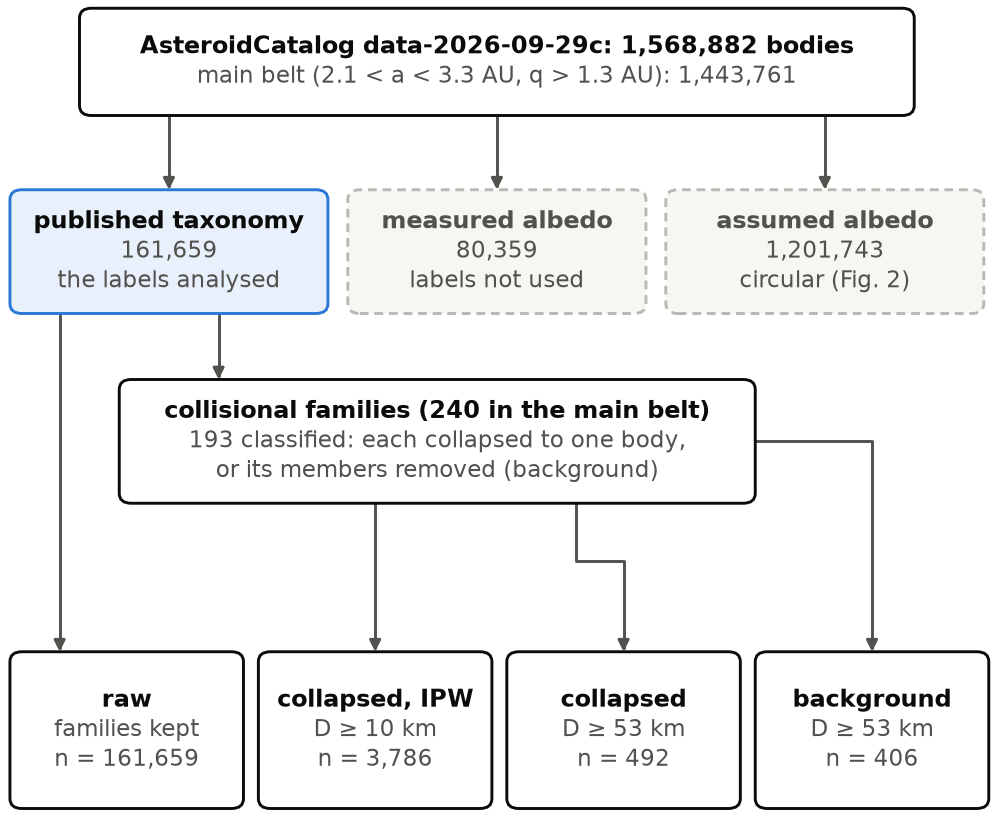
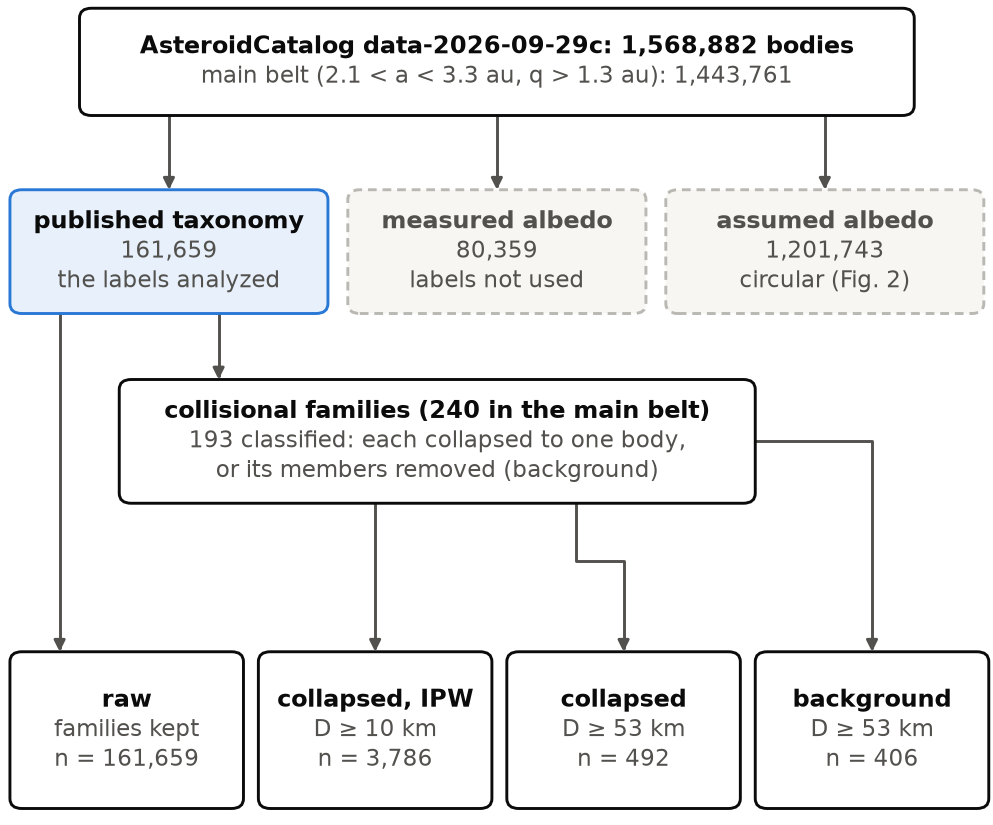
Move legends clear of the data, write au, match Table 5's p-values (v2.6.1)
Drawing changes only, from the paper's formatting audit:
- Figs. 2, 4, 8 and 11: legends move outside the axes, where no line crosses them.
- Fig. 9: KS p-values to two significant figures with trailing zeros (0.030, 0.0060), as in Table 5.
- Every figure writes the astronomical unit as "au" (AAS / IAU style).
- Figs. 3 and 7: "analyzed", "all classified bodies".

summary.json is identical apart from the version; no RNG draw changes.

Changed region(s): [[0.1873, 0.0606, 0.4995, 0.1212], [0.6244, 0.0606, 0.8117, 0.1212]]

diff --git a/src/beltgradient/figures.py b/src/beltgradient/figures.py
@@ -72,7 +72,7 @@ def completeness_plot(comp: pd.DataFrame, h_c: float, d_c: float):
 
 def c_fraction_panels(samples: dict[str, pd.DataFrame], panel_keys: list[str], rng: np.random.Generator):
     """C-fraction vs a: raw, collapsed + IPW, collapsed + size-complete."""
-    fig, axes = _fig(FULL_W, 2.3, ncols=3, sharey=True)
+    fig, axes = _fig(FULL_W, 2.5, ncols=3, sharey=True)
     for ax, k in zip(axes, panel_keys):
         s = samples[k]
         sparse = k != "raw"   # weighted / size-limited samples are thin at 0.05 AU
@@ -85,12 +85,12 @@ def c_fraction_panels(samples: dict[str, pd.DataFrame], panel_keys: list[str], r
         ax.plot(cb.a[ok], cb.f[ok], color=COLORS["K/L"], lw=.9, ls="--")
         mark_structure(ax)
         ax.set_title(f"{k.replace('≥', ' ≥ ')}  (n = {len(s):,})", loc="left", fontsize=6.5, color=INK)
-        ax.set(xlabel="semimajor axis a (AU)", ylim=(0, 1), xlim=(A_MIN, A_MAX))
+        ax.set(xlabel="semimajor axis a (au)", ylim=(0, 1), xlim=(A_MIN, A_MAX))
     axes[0].set_ylabel("carbonaceous fraction")
     axes[0].plot([], [], color=COLORS["C-like"], lw=1.3, label="narrow, C/(S+C), 16–84% band")
     axes[0].plot([], [], color=COLORS["K/L"], lw=.9, ls="--", label="broad, (C+D/P+K/L)/(all but X)")
-    axes[0].plot([], [], color=SNOW, lw=.8, ls="--", label=f"snow line, $T_{{eq}}$ = 170 K ({SNOW_LINE_AU:.2f} AU)")
-    axes[0].legend(loc="upper left")
+    axes[0].plot([], [], color=SNOW, lw=.8, ls="--", label=f"snow line, $T_{{eq}}$ = 170 K ({SNOW_LINE_AU:.2f} au)")
+    fig.legend(*axes[0].get_legend_handles_labels(), loc="outside lower center", ncol=3)   # below, clear of the data
     return fig
 
 
@@ -113,7 +113,7 @@ def stacked_composition(s: pd.DataFrame, d_c: float):
     top.tick_params(length=0, pad=1, labelsize=5.5, labelcolor=INK2)
     top.spines["top"].set_visible(False)
     top.set_xlabel(f"bodies per bin (D ≥ {d_c:.0f} km, families collapsed)", fontsize=6, color=INK2, labelpad=2)
-    ax.set(xlim=(A_MIN, A_MAX), ylim=(0, 1), xlabel="semimajor axis a (AU)", ylabel="fraction by number")
+    ax.set(xlim=(A_MIN, A_MAX), ylim=(0, 1), xlabel="semimajor axis a (au)", ylabel="fraction by number")
     fig.legend(*ax.get_legend_handles_labels(), loc="outside lower center", ncol=len(order), handlelength=1.0, columnspacing=1.0)
     return fig
 
@@ -151,7 +151,7 @@ def orbital_cdfs(orb: pd.DataFrame):
                             label=f"{g} (n = {len(arr):,})")
             if len(S) >= 10 and len(C) >= 10:
                 p = stats.ks_2samp(S, C).pvalue
-                ax.text(.03, .97, f"KS p = {p:.2g}", transform=ax.transAxes, ha="left", va="top", fontsize=5.5, color=INK2)
+                ax.text(.03, .97, f"KS p = {p:#.2g}", transform=ax.transAxes, ha="left", va="top", fontsize=5.5, color=INK2)
             ax.set(xlabel=lab.replace("proper ", "proper "), ylabel="cumulative fraction" if j == 0 else None, ylim=(0, 1.02))
             if i == 0:
                 ax.set_title(z, loc="left", fontsize=6.5)
@@ -160,7 +160,7 @@ def orbital_cdfs(orb: pd.DataFrame):
 
 
 def dark_fraction(alb: pd.DataFrame, d_ca: float, rng: np.random.Generator):
-    fig, ax = _fig(COL_W, 2.0)
+    fig, ax = _fig(COL_W, 2.3)
     for lab, d, c in [("all with measured albedo", alb, "#9aa5a6"),
                       (f"background, D ≥ {d_ca:.0f} km (complete)", alb[~alb.in_family & (alb.diameter_km >= d_ca)], COLORS["C-like"])]:
         x, f, lo, hi, n = dark_curve(d, np.arange(A_MIN, A_MAX + 1e-9, 0.1 if "D ≥" in lab else BIN_W), rng)
@@ -168,21 +168,21 @@ def dark_fraction(alb: pd.DataFrame, d_ca: float, rng: np.random.Generator):
         ax.fill_between(x[k], lo[k], hi[k], color=c, alpha=.2, lw=0)
         ax.plot(x[k], f[k], color=c, lw=1.2, label=f"{lab} (n = {len(d):,})")
     mark_structure(ax)
-    ax.set(xlabel="semimajor axis a (AU)", ylabel="fraction with $p_V$ < 0.10", ylim=(0, 1), xlim=(A_MIN, A_MAX))
-    ax.legend(loc="lower right")
+    ax.set(xlabel="semimajor axis a (au)", ylabel="fraction with $p_V$ < 0.10", ylim=(0, 1), xlim=(A_MIN, A_MAX))
+    fig.legend(*ax.get_legend_handles_labels(), loc="outside lower center")
     return fig
 
 
 def circularity(assumed: pd.DataFrame, raw: pd.DataFrame, rng: np.random.Generator):
     """The assumed-albedo tier returns the step function it was built from."""
-    fig, ax = _fig(COL_W, 1.95)
+    fig, ax = _fig(COL_W, 2.3)
     for lab, d, c in [("assumed-albedo labels (circular)", assumed, "#e67e22"),
                       ("published taxonomy, raw", raw, COLORS["C-like"])]:
         cc = c_fraction_curve(d, rng, "narrow", n_boot=50)
         ax.plot(cc.a, cc.f, color=c, lw=1.2, label=f"{lab} (n = {len(d):,})")
     mark_structure(ax, snow=False)
-    ax.set(xlabel="semimajor axis a (AU)", ylabel="C/(S+C)", ylim=(-.02, 1.02), xlim=(A_MIN, A_MAX))
-    ax.legend(loc="lower right")
+    ax.set(xlabel="semimajor axis a (au)", ylabel="C/(S+C)", ylim=(-.02, 1.02), xlim=(A_MIN, A_MAX))
+    fig.legend(*ax.get_legend_handles_labels(), loc="outside lower center")
     return fig
 
 
@@ -214,7 +214,7 @@ def size_distance_map(s: pd.DataFrame):
     top.spines["top"].set_visible(False)
     ax.set_yticks(np.arange(shape[0]) + .5, ["10–20", "20–50", "50–100", "≥ 100"])
     ax.tick_params(axis="y", length=0)
-    ax.set(xlabel="semimajor axis a (AU)", ylabel="diameter D (km)", xlim=(A_MIN, A_MAX))
+    ax.set(xlabel="semimajor axis a (au)", ylabel="diameter D (km)", xlim=(A_MIN, A_MAX))
     for side in ("left", "bottom"):
         ax.spines[side].set_visible(False)
     cb = fig.colorbar(m, ax=ax, pad=.02, fraction=.06, aspect=18, ticks=[0, .25, .5, .75, 1])
@@ -229,7 +229,7 @@ SAMPLE_COLORS = ["#8e8e8e", "#2a78d6", "#eb6834", "#1baf7a"]   # raw in gray; th
 
 def crossover_fits(xo: pd.DataFrame):
     """The fitted logistic P(C | a) of every sample, dotted outside the belt, with a50 and its 16–84% interval below."""
-    fig, (ax, ax2) = _fig(COL_W, 2.75, nrows=2, sharex=True, gridspec_kw={"height_ratios": [3, 1.15]})
+    fig, (ax, ax2) = _fig(COL_W, 3.0, nrows=2, sharex=True, gridspec_kw={"height_ratios": [3, 1.15]})
     x = np.linspace(1.4, 4.0, 521)
     inb = (x >= A_MIN) & (x <= A_MAX)
     labels = [k.replace("≥", " ≥ ") for k in xo.index]
@@ -252,10 +252,10 @@ def crossover_fits(xo: pd.DataFrame):
     ax.text(SNOW_LINE_AU + .03, .02, "snow line", fontsize=5.5, color=SNOW, va="bottom")
     ax.set(ylim=(0, 1), ylabel="fitted P(C | a)")
     ax.set_yticks([0, .1, .5, .9, 1])
-    ax.legend(loc="upper left", fontsize=5.5)
+    fig.legend(*ax.get_legend_handles_labels(), loc="outside upper center", ncol=2, fontsize=5.5)
     ax2.set_yticks(range(len(xo)), ["raw", "IPW, D ≥ 10", "D ≥ 53", "background"][::-1] if len(xo) == 4 else labels[::-1])
     ax2.tick_params(axis="y", length=0, labelsize=5.5)
-    ax2.set(xlim=(1.4, 4.0), ylim=(-.6, len(xo) - .4), xlabel="semimajor axis a (AU)")
+    ax2.set(xlim=(1.4, 4.0), ylim=(-.6, len(xo) - .4), xlabel="semimajor axis a (au)")
     ax2.set_ylabel("$a_{50}$", fontsize=6)
     return fig
 
@@ -285,7 +285,7 @@ def proper_element_map(mb: pd.DataFrame, orb: pd.DataFrame, ftab: pd.DataFrame):
                         ha="center", va="center", zorder=3,
                         bbox=dict(boxstyle="round,pad=0.12", fc="white", ec="none", alpha=.75))
     mark_structure(ax, snow=False)
-    ax.set(xlim=(A_MIN, A_MAX), ylim=(0, top_i), xlabel="proper semimajor axis $a_P$ (AU)", ylabel="proper sin $i_P$")
+    ax.set(xlim=(A_MIN, A_MAX), ylim=(0, top_i), xlabel="proper semimajor axis $a_P$ (au)", ylabel="proper sin $i_P$")
     fig.legend(*ax.get_legend_handles_labels(), loc="outside lower center", ncol=3, markerscale=3.5, handletextpad=.3,
                title=f"background bodies, D ≥ {D_ORBIT:.0f} km:", title_fontsize=6, alignment="left")
     return fig
@@ -365,10 +365,10 @@ def snow_line_track(track, crossover: tuple[float, float]):
     for a_myr in (1.0, 5.0):
         k = int(np.argmin(abs(age - a_myr)))
         ax.plot(age[k], r[k], "o", ms=3.2, color=COLORS["C-like"], mec="white", mew=.5, zorder=4)
-        ax.annotate(f"{r[k]:.1f} AU at {age[k]:.0f} Myr", (age[k], r[k]), xytext=(5, 3), textcoords="offset points",
+        ax.annotate(f"{r[k]:.1f} au at {age[k]:.0f} Myr", (age[k], r[k]), xytext=(5, 3), textcoords="offset points",
                     fontsize=5.5, color=INK2)
     ax.set_xscale("log")
-    ax.set(xlim=(age[0], age[-1]), ylim=(1.5, 5.0), xlabel="age of a 1 $M_\\odot$ star (Myr)", ylabel="snow-line radius (AU)")
+    ax.set(xlim=(age[0], age[-1]), ylim=(1.5, 5.0), xlabel="age of a 1 $M_\\odot$ star (Myr)", ylabel="snow-line radius (au)")
     ax.set_xticks([.5, 1, 2, 5, 10, 20, 50], ["0.5", "1", "2", "5", "10", "20", "50"])
     x0 = age[0] * 1.06
     ax.text(age[-1] * .97, A_MAX - .05, "present main belt", ha="right", va="top", fontsize=5.5, color=INK2)
@@ -408,8 +408,8 @@ def sample_flow(summary: dict, keys: list[str]):
     fig.subplots_adjust(0, 0, 1, 1)
     ax.set(xlim=(0, 100), ylim=(0, 100)); ax.axis("off")
     _box(ax, 8, 86, 92, 99, [f"AsteroidCatalog {c['release']}: {c['rows']:,} bodies",
-                             f"main belt (2.1 < a < 3.3 AU, q > 1.3 AU): {c['main_belt']:,}"])
-    _box(ax, 1, 62, 33, 77, ["published taxonomy", f"{tiers['taxonomy']:,}", "the labels analysed"], focal=True)
+                             f"main belt (2.1 < a < 3.3 au, q > 1.3 au): {c['main_belt']:,}"])
+    _box(ax, 1, 62, 33, 77, ["published taxonomy", f"{tiers['taxonomy']:,}", "the labels analyzed"], focal=True)
     _box(ax, 35, 62, 65, 77, ["measured albedo", f"{tiers['albedo_proxy']:,}", "labels not used"], muted=True)
     _box(ax, 67, 62, 99, 77, ["assumed albedo", f"{tiers['assumed']:,}", "circular (Fig. 2)"], muted=True)
     for x in (17, 50, 83):

diff --git a/src/beltgradient/pipeline.py b/src/beltgradient/pipeline.py
@@ -258,7 +258,7 @@ def _run(paths: Paths, write: bool, verbose: bool) -> Results:
     # 6 · by mass (family collapse conserves mass, so all labelled bodies)
     t = mb[mb.tier.eq("taxonomy") & mb.estimated_mass_kg.notna() & mb.group.isin(GROUP_ORDER)]
     big4 = set(t.nlargest(4, "estimated_mass_kg").index)
-    mass_panels = [("all labelled bodies", t), ("without the 4 most massive", t.drop(index=list(big4)))]
+    mass_panels = [("all classified bodies", t), ("without the 4 most massive", t.drop(index=list(big4)))]
     save("mass", F.mass_bars(mass_panels))
     mass_c = {}
     for lab, d in zip(["all", "no_big4"], [p[1] for p in mass_panels]):

diff --git a/src/beltgradient/__init__.py b/src/beltgradient/__init__.py
@@ -4,4 +4,4 @@ Analysis code for Edwards (2026), "Constraints on the Origin of the Asteroid Bel
 from Debiased Taxonomic Data". ``python -m beltgradient fetch`` downloads the inputs;
 ``python -m beltgradient run`` regenerates every figure and ``results/summary.json``.
 """
-__version__ = "2.6.0"
+__version__ = "2.6.1"

diff --git a/README.md b/README.md
@@ -104,7 +104,7 @@ The catalog is a merger, and two of its sources make citation a condition of use
 
 The full list is in the [AsteroidCatalog citations](https://github.com/loggger101/AsteroidCatalog/blob/main/CITATIONS.md).
 
-See [`CITATION.cff`](CITATION.cff). The paper cites release **v2.6.0**, which reads the AsteroidCatalog release `data-2026-09-29c` (data contract 1.8.1). It adds three figures (Figs. 1, 3 and 12) and the `summary.json` blocks behind them (`snow_line_track`, `sample_sizes`, `albedo_by_group`); every other output is identical to v2.5.0's. v2.5.0 redrew every figure at its printed size and adds four (Figs. 4, 6, 8 and 10 above); `summary.json` is identical to v2.4.0's apart from the version. v2.4.0 added the X-type split by albedo (Method 7, `summary.json` → `x_split_by_albedo`); every other output is identical to v2.3.1's. v2.3.1 differs from v2.3.0 only in Fig. 3 (`fig1b_stacked_composition.png`), whose bin counts now sit in their own row instead of colliding with the resonance labels; `summary.json` and the other figures are identical. Against `data-2026-09-27`, which v2.2.0 read, the release that v2.3.0 and v2.3.1 read adds two mineral-phase columns this analysis does not read and 225 main-belt bodies, all of them unclassified, and names 47 more bodies. No main-belt body's class, orbit, H, diameter, albedo or mass moves (beyond one part in 10¹²). So only the main-belt and assumed-albedo counts change (and the assumed-label share, 0.8323 → 0.8324), along with the two figures that show them (completeness and circularity); every fraction, crossover, orbit test, mass share and table is identical. v2.2.0 read `data-2026-09-27`, and v2.1.0 read `data-2026-09-26b`. Against the latter, the 2026-09-27 rebuild adds 751 main-belt bodies, none of them classified, and changes only masses estimated from a class density: an X-type with a measured albedo now takes the density of the P, M or E class that albedo indicates, one without takes their mixture, and the P and Q densities are lower. No main-belt body's class, orbit, H, diameter or albedo moves. So only the main-belt and assumed-albedo counts, the family fraction under the one-step extension (by 0.0002), the measured share of classified mass (0.940 → 0.951) and five mass shares (by at most 0.005) change, along with the three figures that show them (completeness, mass by zone, circularity). The mass-by-zone figure also puts its legend under the panels, where it no longer covers the outer zone's total. Every fraction, crossover, orbit test and table is identical. v2.1.0 differed from v2.0.0 (`data-2026-09-26`) in the same way: 185 more unclassified bodies and corrected Xe, Xk and Xc densities. The v1.x releases analysed the catalog's 2026-08-11 build (pipeline 1.1.0, frozen as this repository's [`data-v1`](https://github.com/loggger101/asteroid-belt-gradient/releases/tag/data-v1) snapshot), so their numbers differ slightly. v2.0.0 also groups classes F and Z, which v1.x left out of every fraction.
+See [`CITATION.cff`](CITATION.cff). The paper cites release **v2.6.1**, which reads the AsteroidCatalog release `data-2026-09-29c` (data contract 1.8.1). It changes only how figures are drawn: the legends of Figs. 2, 4, 8 and 11 move outside the plot area, where no line crosses them; Fig. 9 prints its KS p-values to two significant figures as Table 5 does (0.030, 0.0060); Figs. 3 and 7 use American spelling; and every figure writes the astronomical unit as "au" (AAS and IAU style). `summary.json` is identical to v2.6.0's apart from the version. v2.6.0 added three figures (Figs. 1, 3 and 12) and the `summary.json` blocks behind them (`snow_line_track`, `sample_sizes`, `albedo_by_group`); every other output is identical to v2.5.0's. v2.5.0 redrew every figure at its printed size and adds four (Figs. 4, 6, 8 and 10 above); `summary.json` is identical to v2.4.0's apart from the version. v2.4.0 added the X-type split by albedo (Method 7, `summary.json` → `x_split_by_albedo`); every other output is identical to v2.3.1's. v2.3.1 differs from v2.3.0 only in Fig. 3 (`fig1b_stacked_composition.png`), whose bin counts now sit in their own row instead of colliding with the resonance labels; `summary.json` and the other figures are identical. Against `data-2026-09-27`, which v2.2.0 read, the release that v2.3.0 and v2.3.1 read adds two mineral-phase columns this analysis does not read and 225 main-belt bodies, all of them unclassified, and names 47 more bodies. No main-belt body's class, orbit, H, diameter, albedo or mass moves (beyond one part in 10¹²). So only the main-belt and assumed-albedo counts change (and the assumed-label share, 0.8323 → 0.8324), along with the two figures that show them (completeness and circularity); every fraction, crossover, orbit test, mass share and table is identical. v2.2.0 read `data-2026-09-27`, and v2.1.0 read `data-2026-09-26b`. Against the latter, the 2026-09-27 rebuild adds 751 main-belt bodies, none of them classified, and changes only masses estimated from a class density: an X-type with a measured albedo now takes the density of the P, M or E class that albedo indicates, one without takes their mixture, and the P and Q densities are lower. No main-belt body's class, orbit, H, diameter or albedo moves. So only the main-belt and assumed-albedo counts, the family fraction under the one-step extension (by 0.0002), the measured share of classified mass (0.940 → 0.951) and five mass shares (by at most 0.005) change, along with the three figures that show them (completeness, mass by zone, circularity). The mass-by-zone figure also puts its legend under the panels, where it no longer covers the outer zone's total. Every fraction, crossover, orbit test and table is identical. v2.1.0 differed from v2.0.0 (`data-2026-09-26`) in the same way: 185 more unclassified bodies and corrected Xe, Xk and Xc densities. The v1.x releases analysed the catalog's 2026-08-11 build (pipeline 1.1.0, frozen as this repository's [`data-v1`](https://github.com/loggger101/asteroid-belt-gradient/releases/tag/data-v1) snapshot), so their numbers differ slightly. v2.0.0 also groups classes F and Z, which v1.x left out of every fraction.
 
 ## License
 
